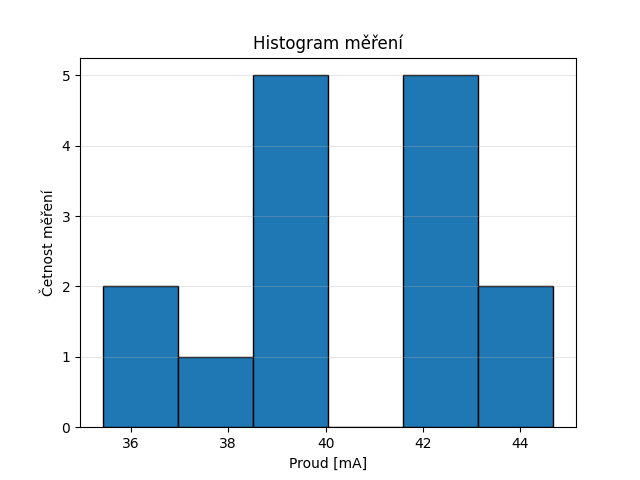
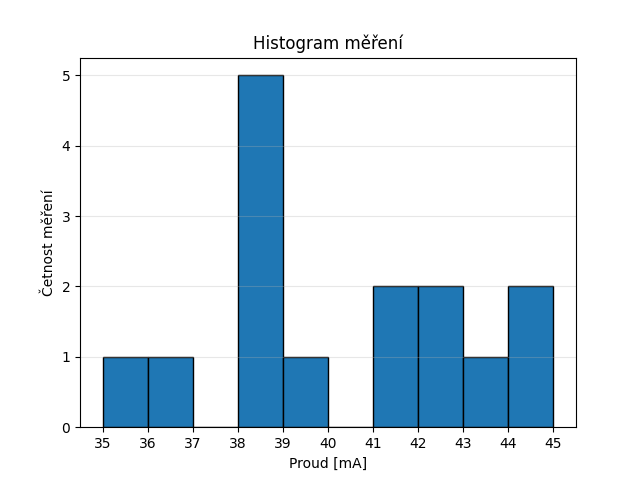
novej hist

diff --git a/prime_mereni.py b/prime_mereni.py
@@ -1,6 +1,8 @@
 import json, math;
 from pathlib import Path;
 import numpy as np;
+
+from matplotlib.ticker import MultipleLocator
 import matplotlib.pyplot as plt;
 
 ABSOLUTE_PATH = Path(__file__).parent.resolve();
@@ -28,6 +30,20 @@ with open(findFile("input.json")) as f:
     jThingys = json.load(f);
     hodnoty = jThingys["hodnoty"];
     velicina = jThingys["velicina"]; # Čísla ze kterých mám hodnoty měření
+
+bins = np.arange(np.floor(min(hodnoty)), np.ceil(max(hodnoty)) + 1, 1)
+
+plt.hist(hodnoty, bins=bins, edgecolor="black", density=False)
+plt.xlabel("Proud [mA]")
+plt.ylabel("Četnost měření")
+plt.title("Histogram měření")
+plt.grid(axis="y", alpha=0.3)
+
+# popisky osy X jen pro celá čísla
+plt.gca().xaxis.set_major_locator(MultipleLocator(1))
+
+plt.savefig("storager/histogram.png");
+plt.show();
 
 def aritmetr_prumer(arr):
     prumer = 0;
@@ -67,11 +83,3 @@ for i in range(0, len(hodnoty)):
 
 with open(findFile("output.json"), "w", encoding="utf-8") as f:
     json.dump(data, f, ensure_ascii=False, indent=4);
-
-plt.hist(hodnoty, bins=6, edgecolor="black");
-plt.xlabel("Proud [mA]");
-plt.ylabel("Četnost měření");
-plt.title("Histogram měření");
-plt.grid(axis="y", alpha=0.3);
-plt.savefig("storager/histogram.png");
-plt.show();
